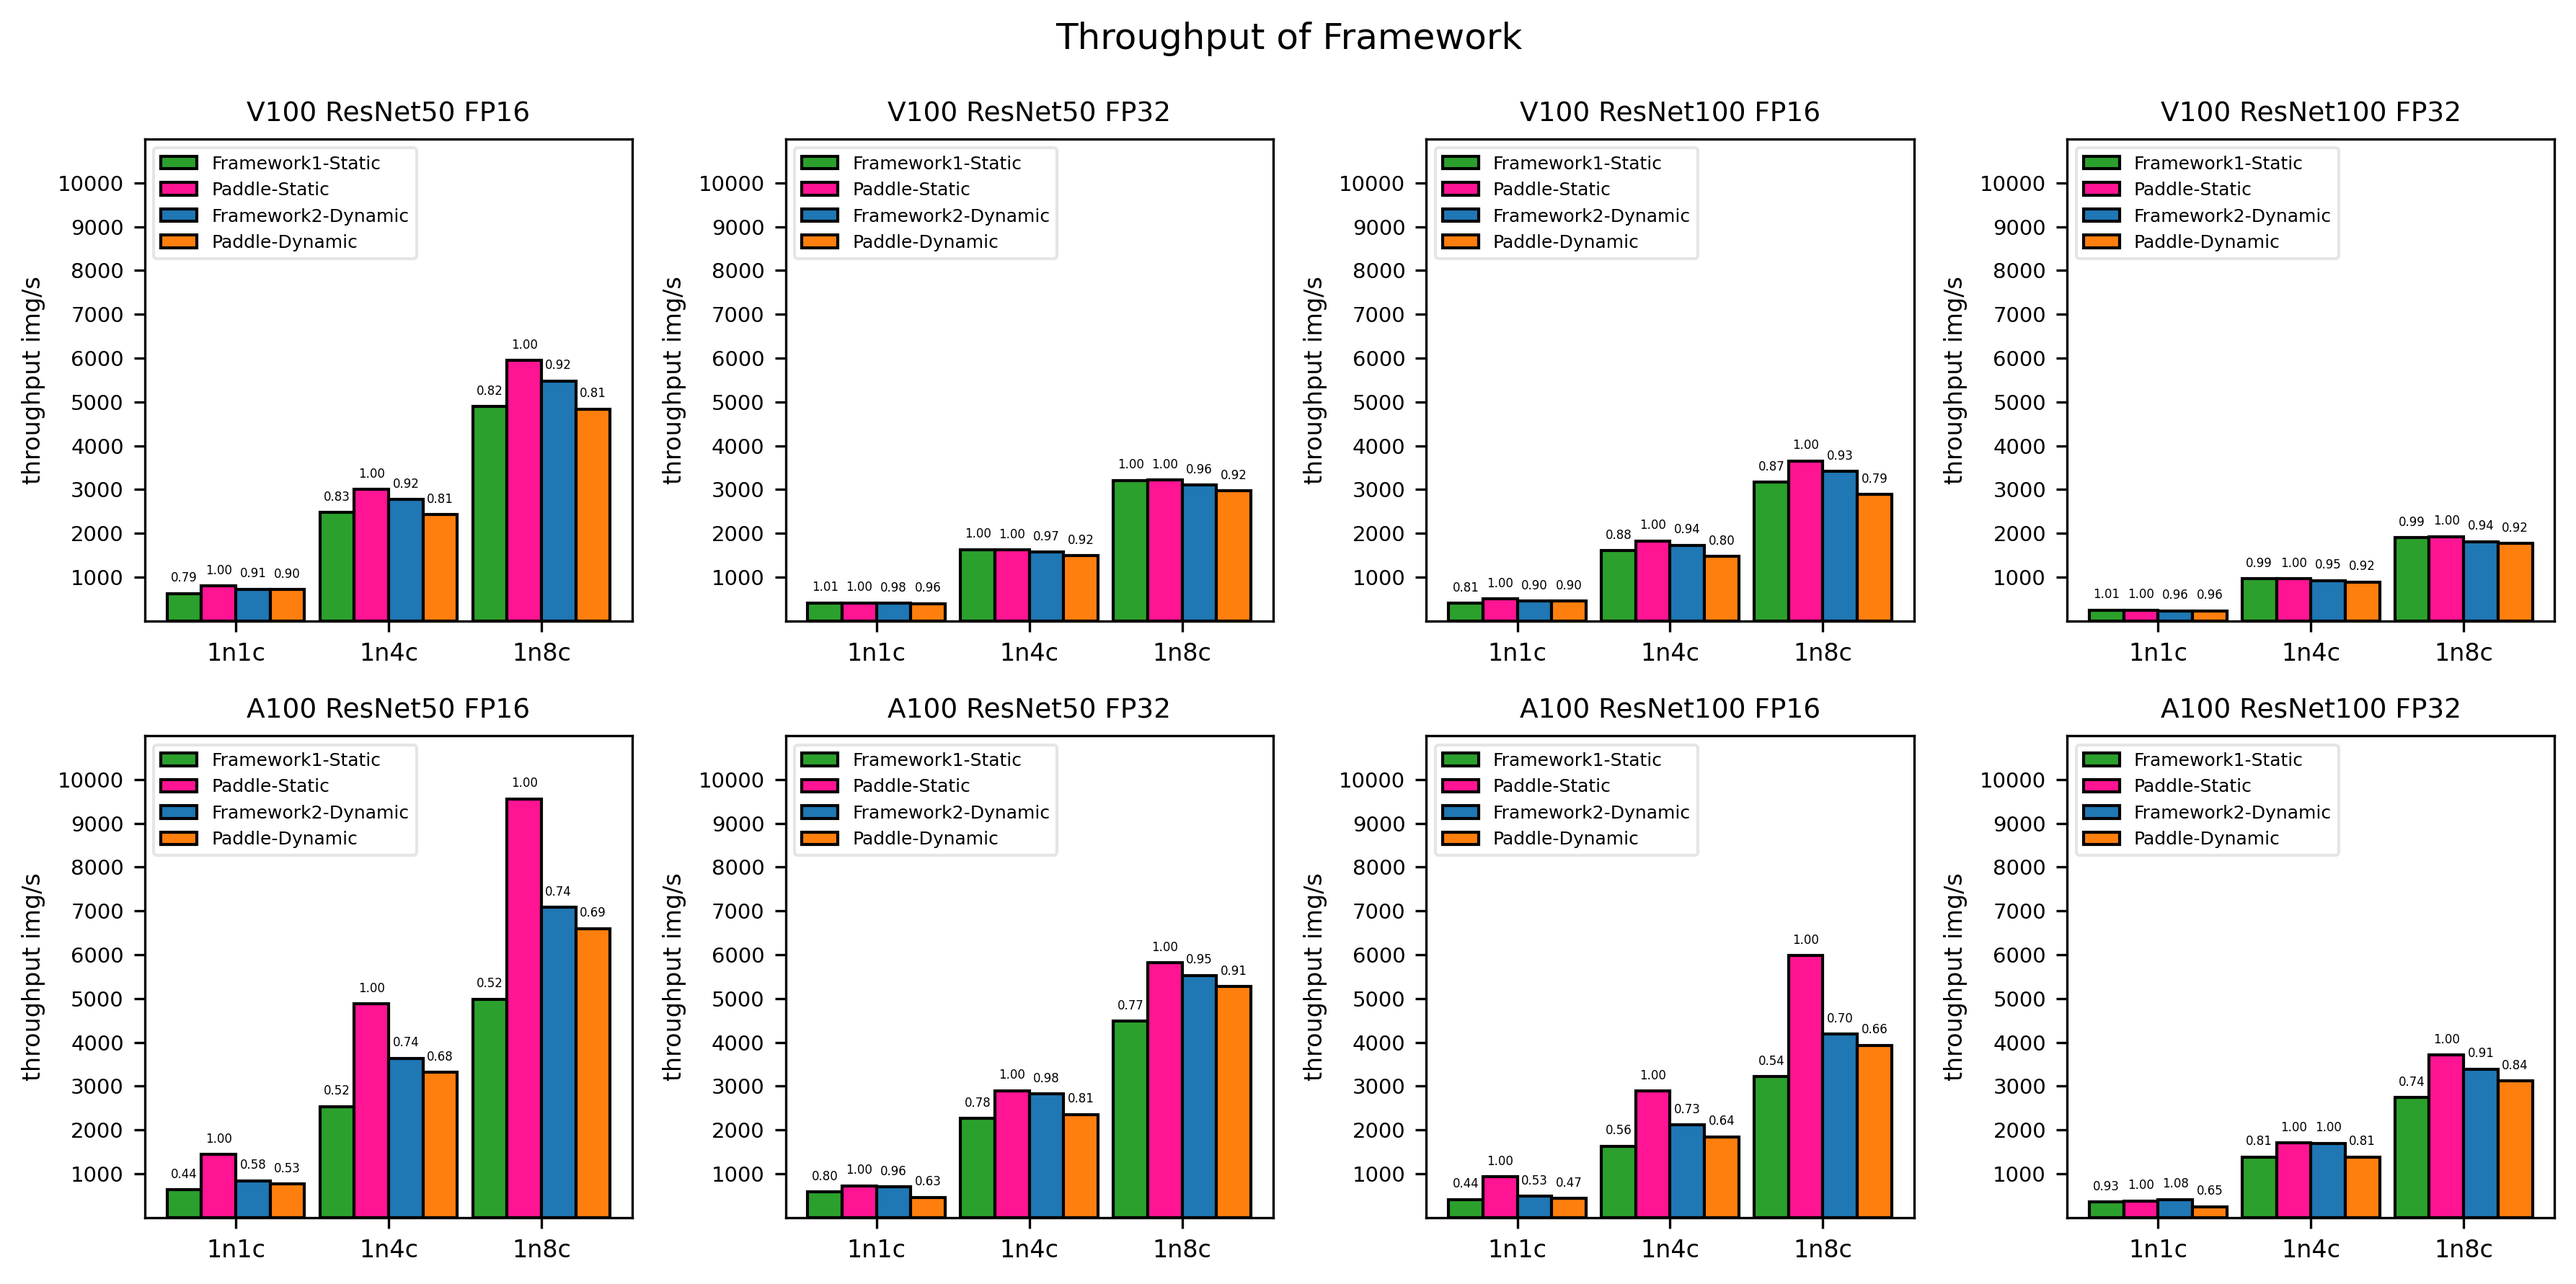
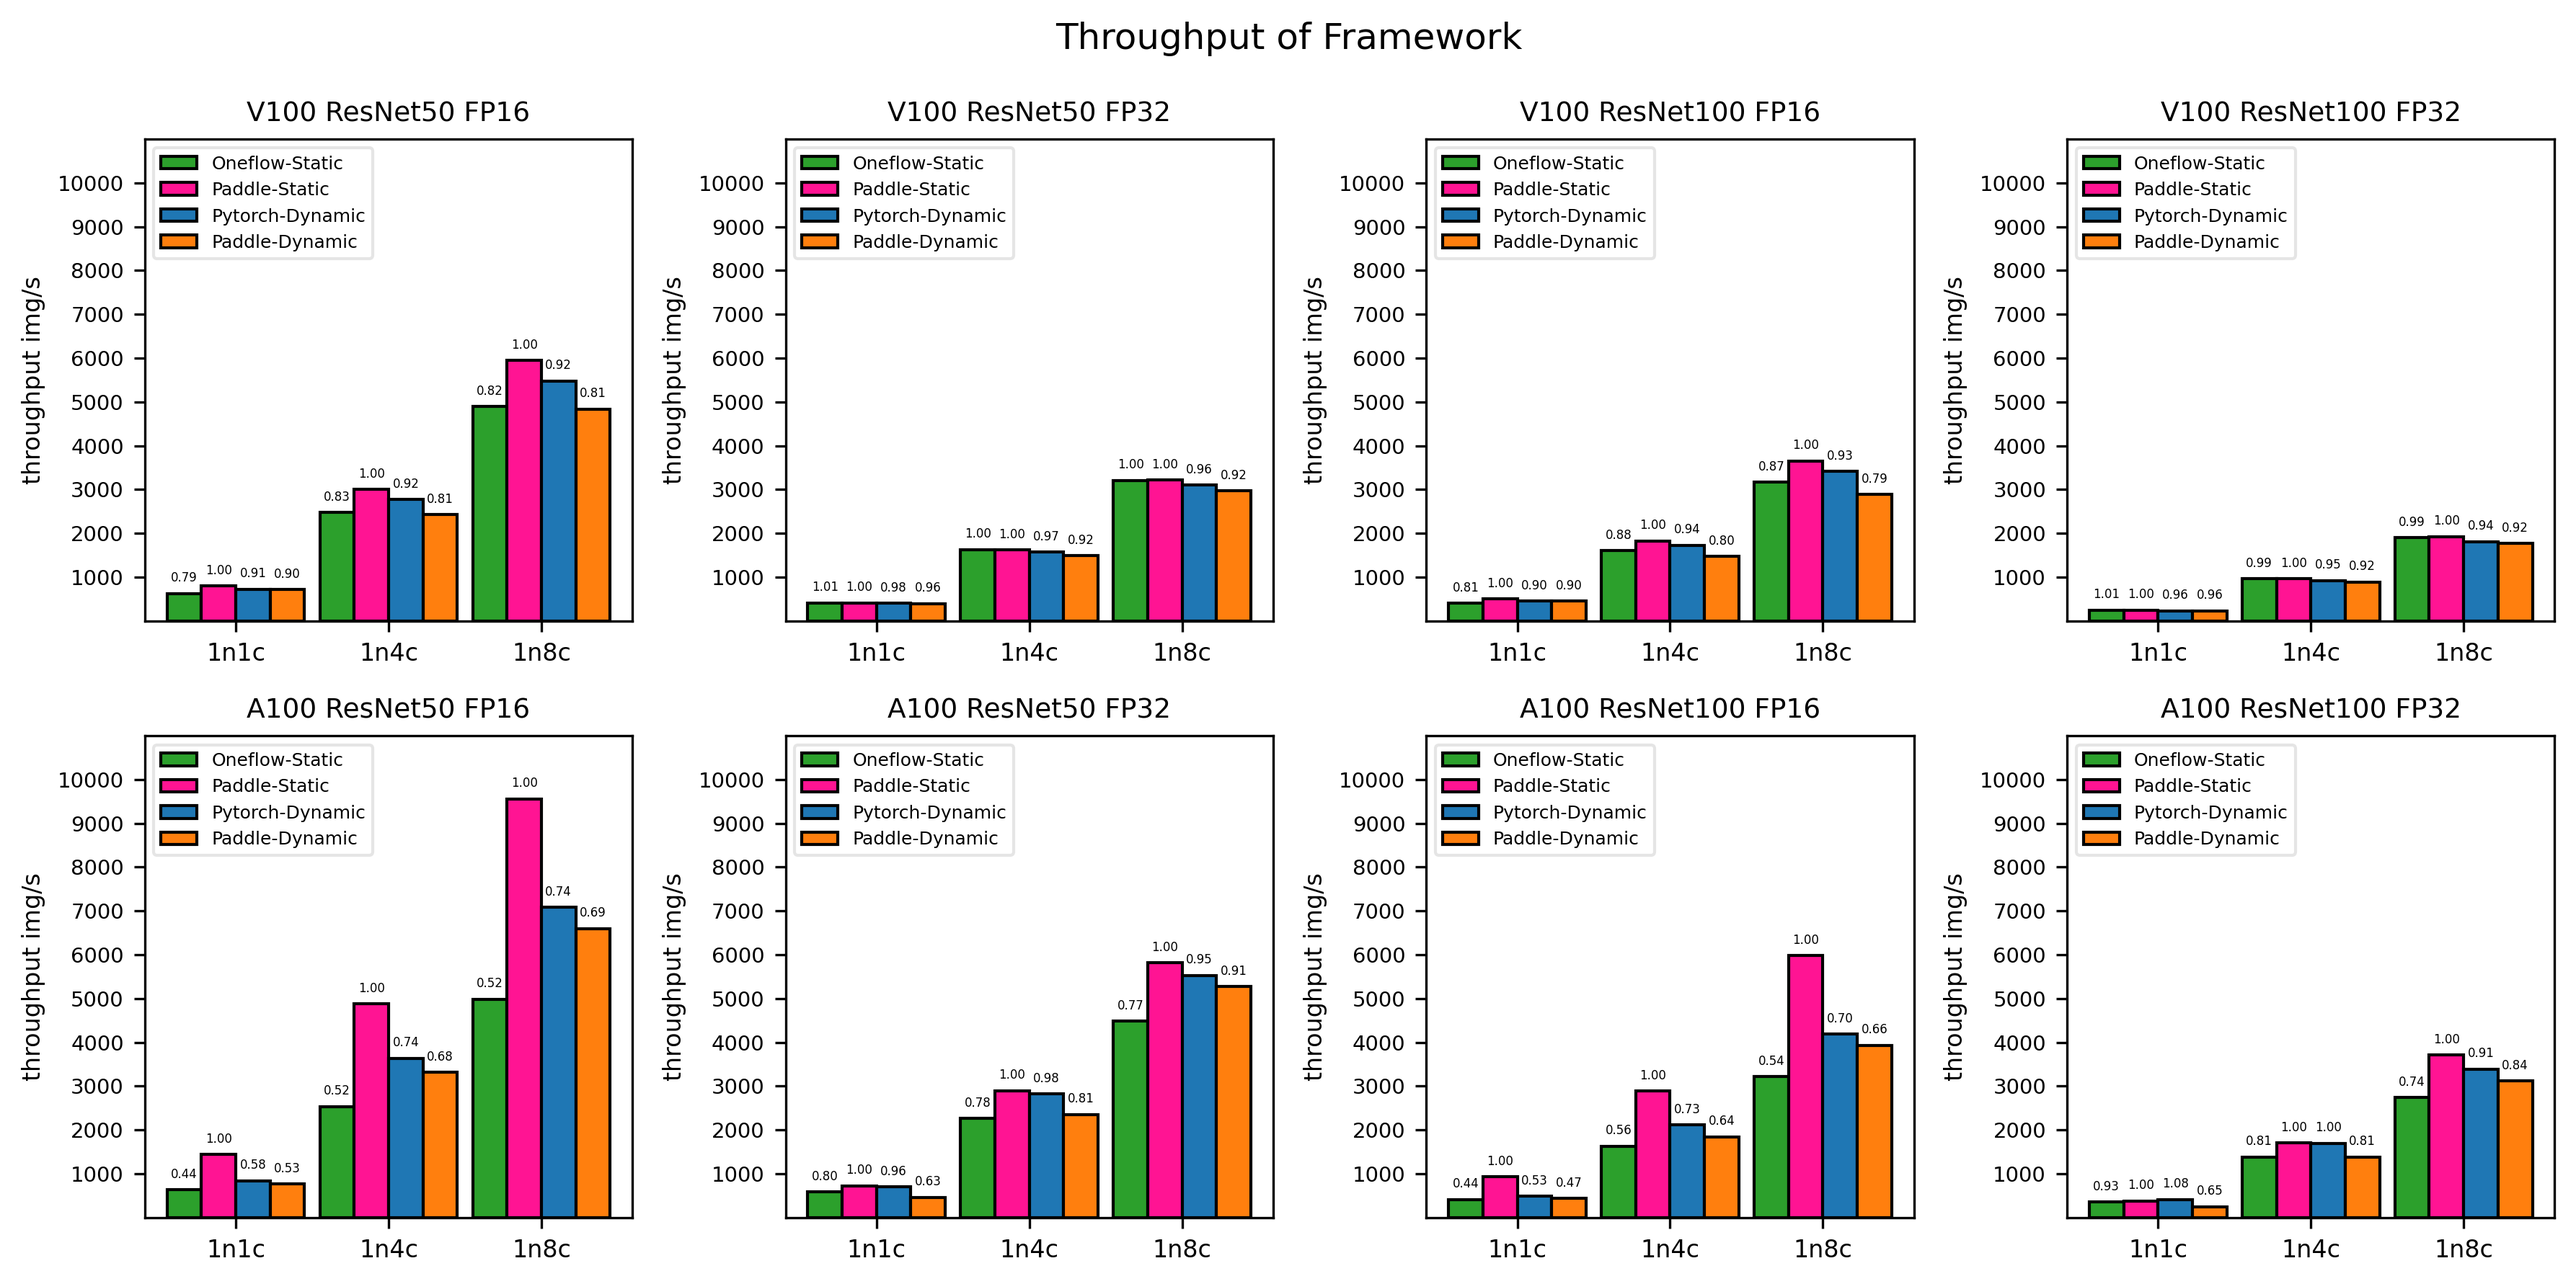
update throughtput.png

diff --git a/README.md b/README.md
@@ -183,8 +183,8 @@ sh scripts/inference.sh
 
 | Mode                      | Precision | Res50    | Res100   |
 | ------------------------- | --------- | -------- | -------- |
-| Framework1 (static)       | AMP       | 42000000 (31792MiB)| 39000000 (31938MiB)|
-| Framework2 (dynamic)      | AMP       | 30000000 (31702MiB)| 29000000 (32286MiB)|
+| Oneflow (static)       | AMP       | 42000000 (31792MiB)| 39000000 (31938MiB)|
+| PyTorch (dynamic)      | AMP       | 30000000 (31702MiB)| 29000000 (32286MiB)|
 | Paddle (static)           | Pure FP16 | 60000000 (32018MiB)| 60000000 (32018MiB)|
 | Paddle (dynamic)          | Pure FP16 | 59000000 (31970MiB)| 59000000 (31970MiB)|
 
